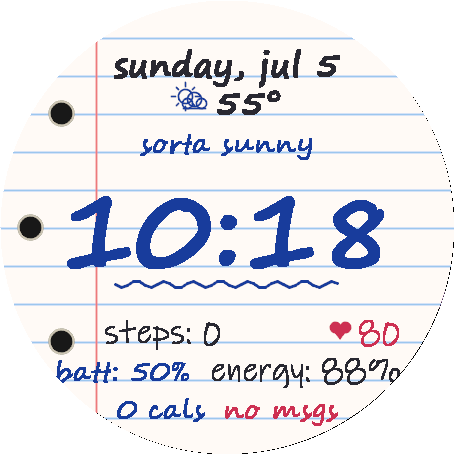
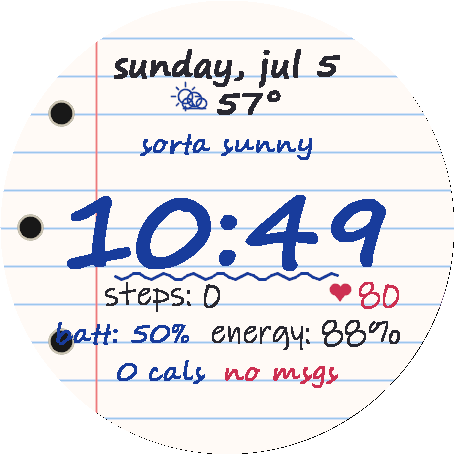
fix: keep every line of the note on the page (v1.0.1)
- move the stats up a rule so calories/messages clear the bottom curve
- start the battery line at the red margin, off the bottom punch hole
- move Body Battery beside the calories, centered on a wide rule; the
  notification count gets the narrow last rule to itself
- make property reads tolerant of string/boolean values from the
  settings editor (paper style / time pen could fail to apply)

diff --git a/CHANGELOG.md b/CHANGELOG.md
@@ -4,6 +4,23 @@ All notable changes to Passed Note are documented here. The format is based on
 [Keep a Changelog](https://keepachangelog.com/en/1.1.0/), and this project aims to
 follow [Semantic Versioning](https://semver.org/spec/v2.0.0.html).
 
+## [1.0.1] - 2026-07-05
+
+Layout and settings fixes from the first day on the wrist.
+
+### Fixed
+- **Calories clipped at the bottom curve**: the data lines below the time moved
+  up one rule, so the last line no longer sits where the round screen is too
+  narrow for a real calorie count.
+- **Battery overlapping the bottom punch hole**: the battery line now starts at
+  the red margin instead of being centered into the hole.
+- **Body Battery clipped at the right edge**: "energy" moved down beside the
+  calories, centered on a wide rule; the notification count got the narrow
+  last rule to itself.
+- **Settings robustness**: property reads now tolerate numbers arriving as
+  strings/booleans from the settings editor (paper style / time pen could
+  fail to apply).
+
 ## [1.0.0] - 2026-07-05
 
 Initial release. 📝